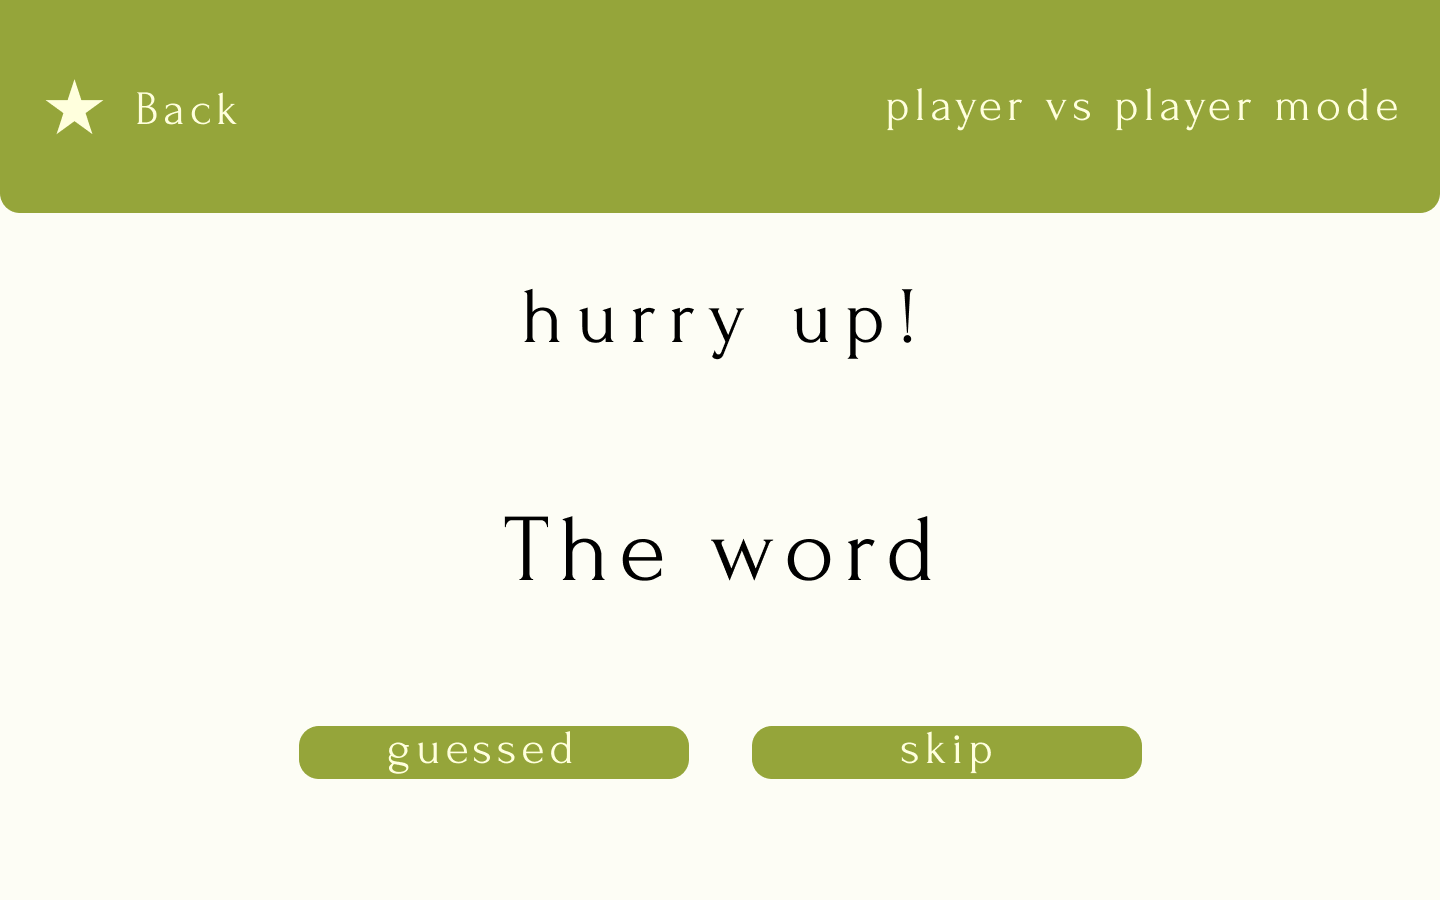
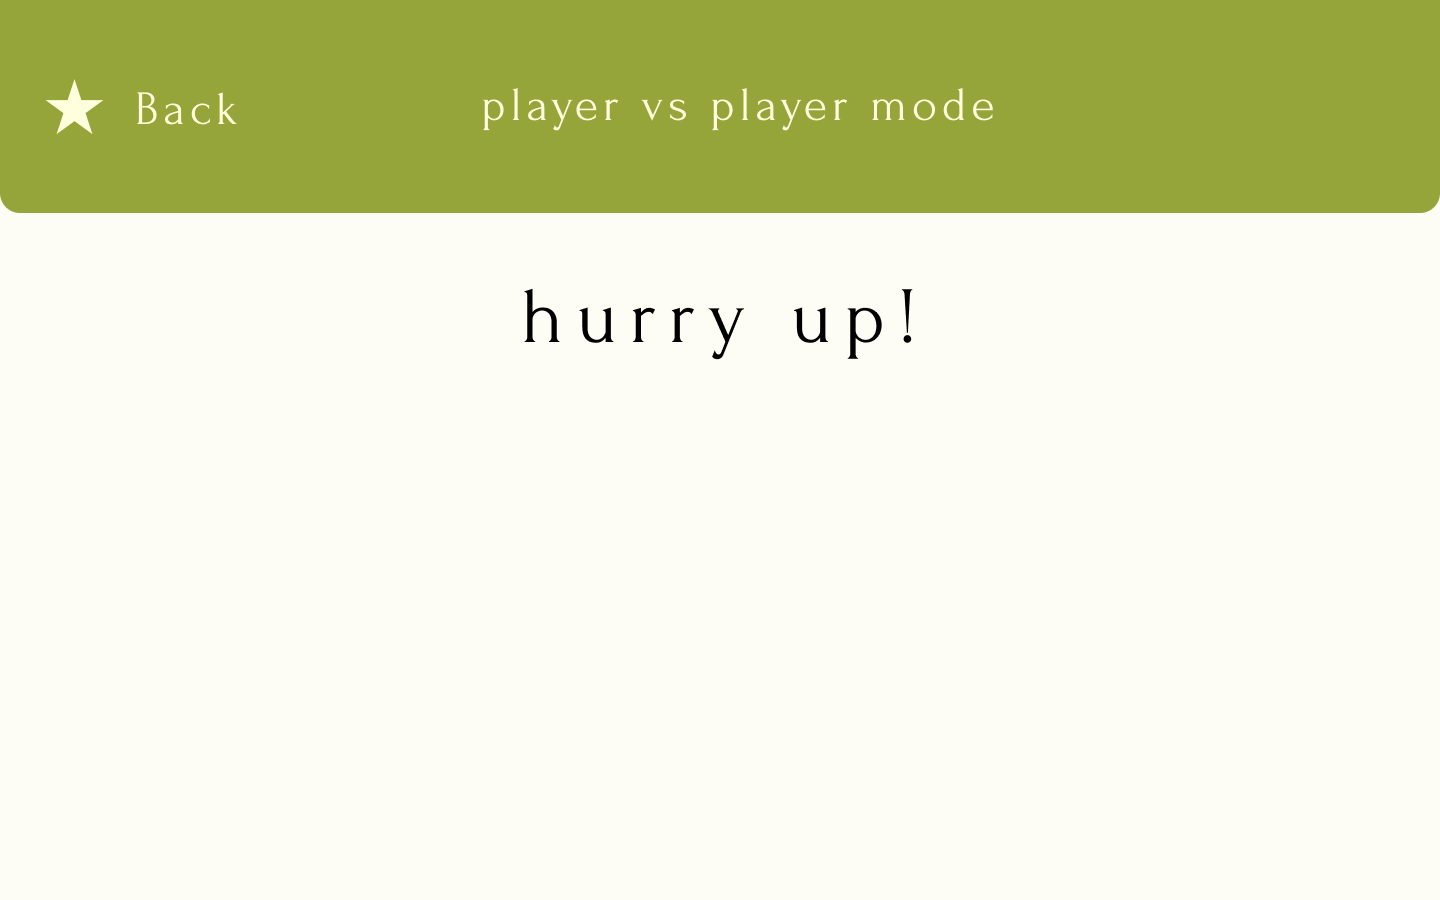
убрала main в  hpp файл. изменила один фон, добавила кнопки угадал / не угадал. вывод слова работает криво, либо бесконечно, либо вообще не выводится

diff --git a/alias/InputWordsAndClues.hpp b/alias/InputWordsAndClues.hpp
@@ -1,6 +1,5 @@
-
+#pragma once
 #ifndef _INPUTWORDSANDCLUES HPP_
-
 #define _INPUTWORDSANDCLUES HPP_
 #include <iostream>
 #include <random>
@@ -8,9 +7,7 @@
 #include <string>
 #include <sstream>
 
-int InputWordsAndClues(std::string* arr);
-int InputWordsAndCluesV2(std::string* WordsAndCluesArr);
-int InputWordsAndCluesV3(std::string* WordsAndCluesArr);
+int InputWordsAndClues(std::string* WordsAndCluesArr);
 
 #endif
 

diff --git a/alias/Start.hpp b/alias/Start.hpp
@@ -1,0 +1,19 @@
+#pragma once
+#ifndef _START HPP_
+#define _START HPP_
+
+#include <iostream>
+#include <sstream>
+#include <list>
+#include <vector>
+#include <SFML/Graphics.hpp>
+#include "InputWordsAndClues.hpp"
+#include "Text.hpp"
+#include "Button.hpp"
+using namespace std;
+using namespace sf;
+
+int Start(RenderWindow& window);
+
+
+#endif

diff --git a/alias/Button.hpp b/alias/Button.hpp
@@ -1,4 +1,4 @@
-#pragma
+#pragma once
 #ifndef _BUTTON HPP_
 #define _BUTTON HPP_
 
@@ -8,7 +8,7 @@
 #include <string>
 #include <sstream>
 #include <SFML/Graphics.hpp>
-#include "text.hpp"
+#include "Text.hpp"
 
 using namespace std;
 using namespace sf;
